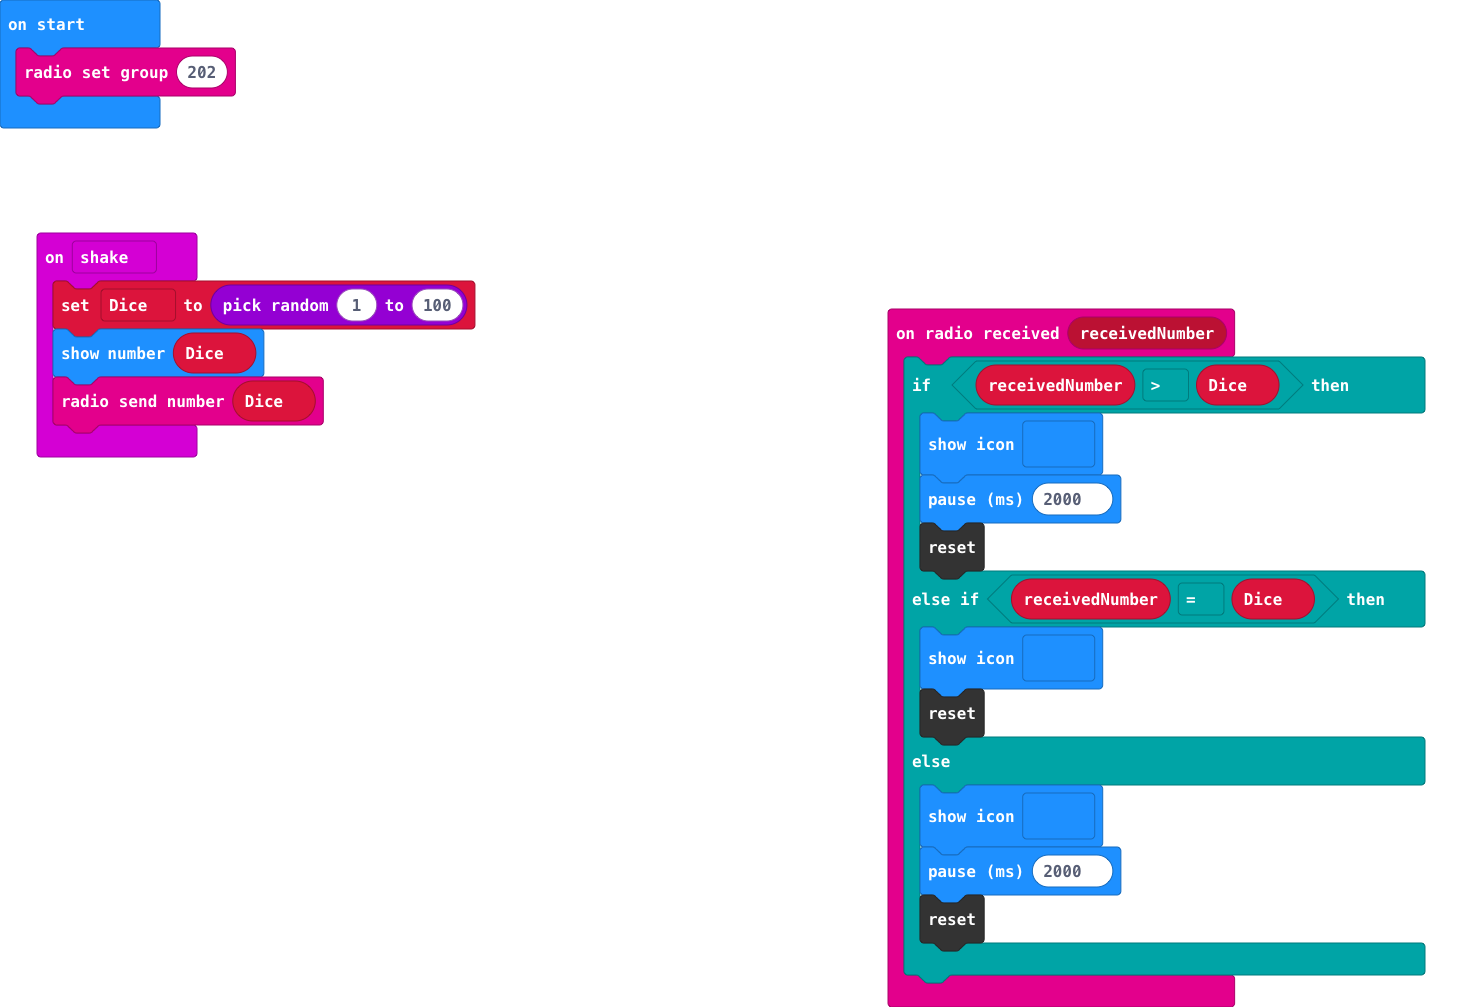
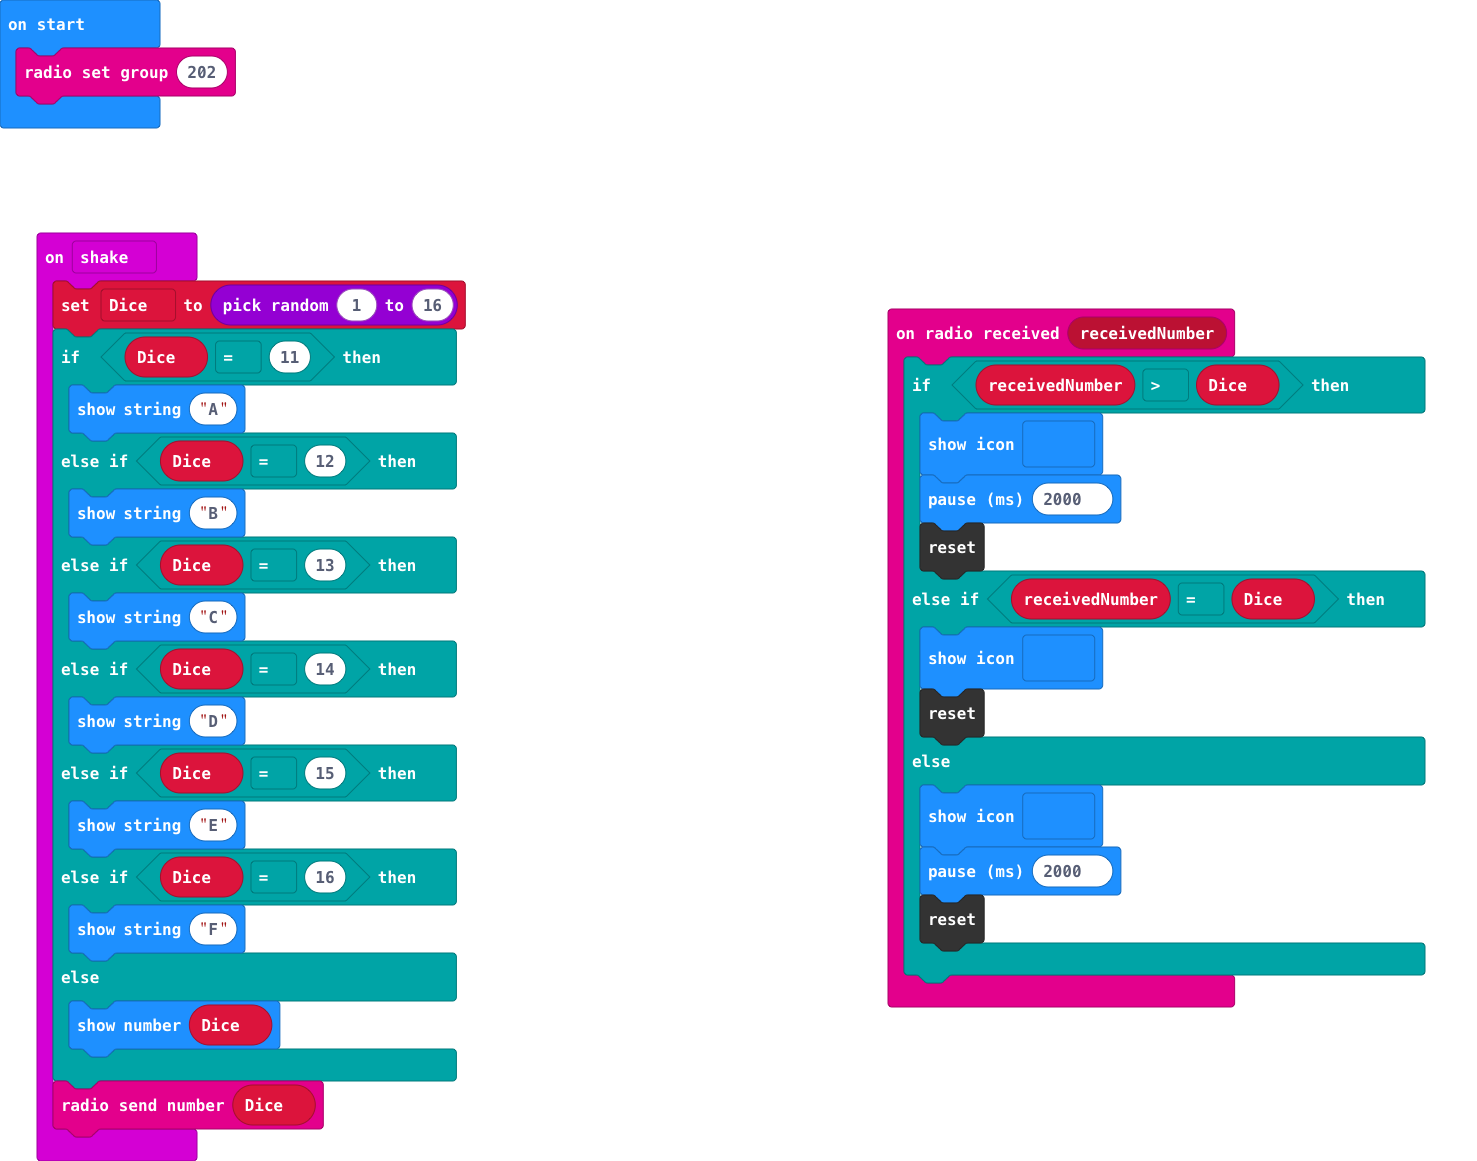
Update main.blocks, main.ts

diff --git a/main.ts b/main.ts
@@ -13,8 +13,22 @@ radio.onReceivedNumber(function (receivedNumber) {
     }
 })
 input.onGesture(Gesture.Shake, function () {
-    Dice = randint(1, 100)
-    basic.showNumber(Dice)
+    Dice = randint(1, 16)
+    if (Dice == 11) {
+        basic.showString("A")
+    } else if (Dice == 12) {
+        basic.showString("B")
+    } else if (Dice == 13) {
+        basic.showString("C")
+    } else if (Dice == 14) {
+        basic.showString("D")
+    } else if (Dice == 15) {
+        basic.showString("E")
+    } else if (Dice == 16) {
+        basic.showString("F")
+    } else {
+        basic.showNumber(Dice)
+    }
     radio.sendNumber(Dice)
 })
 let Dice = 0
